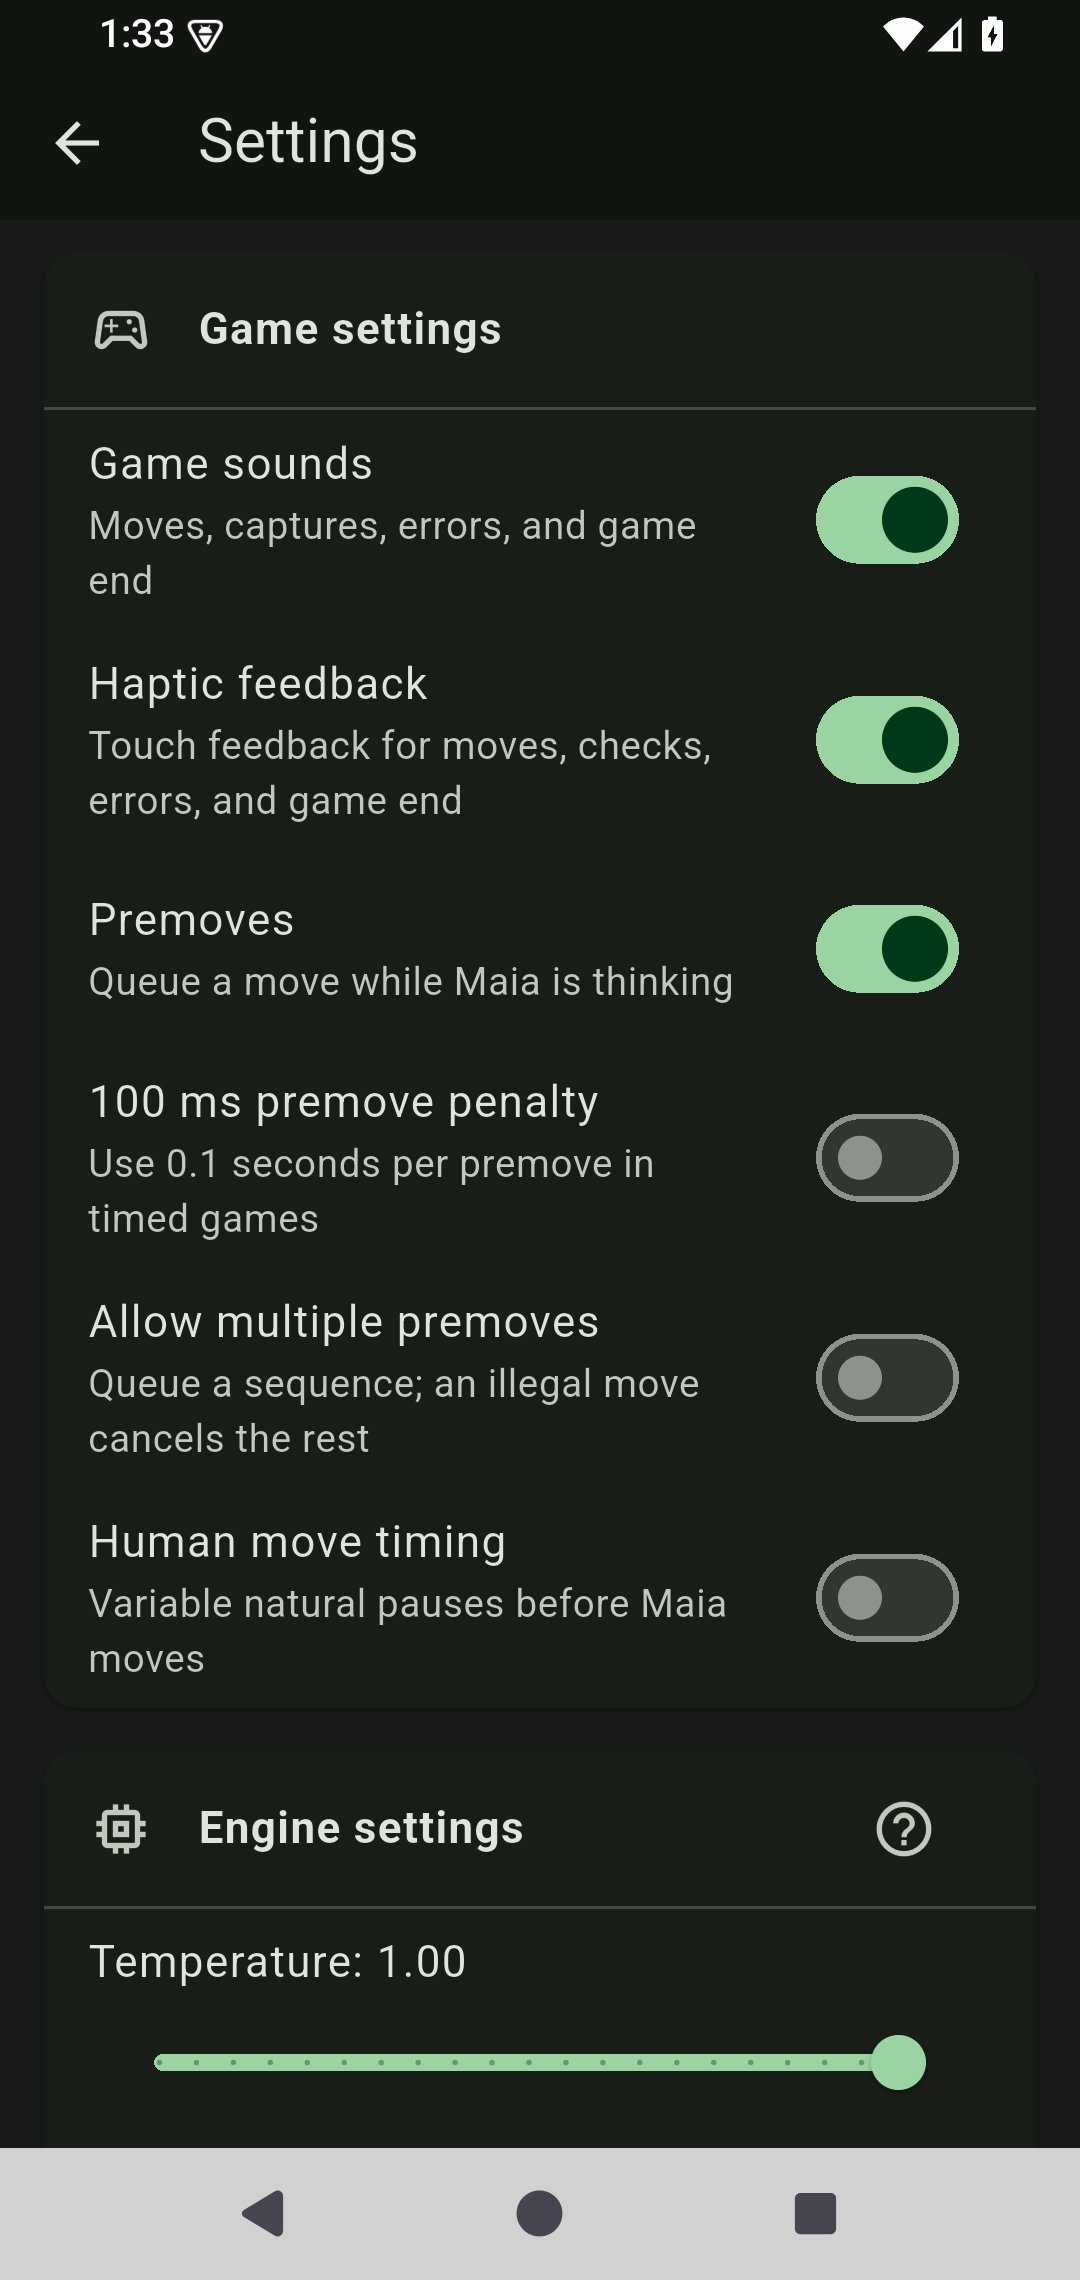
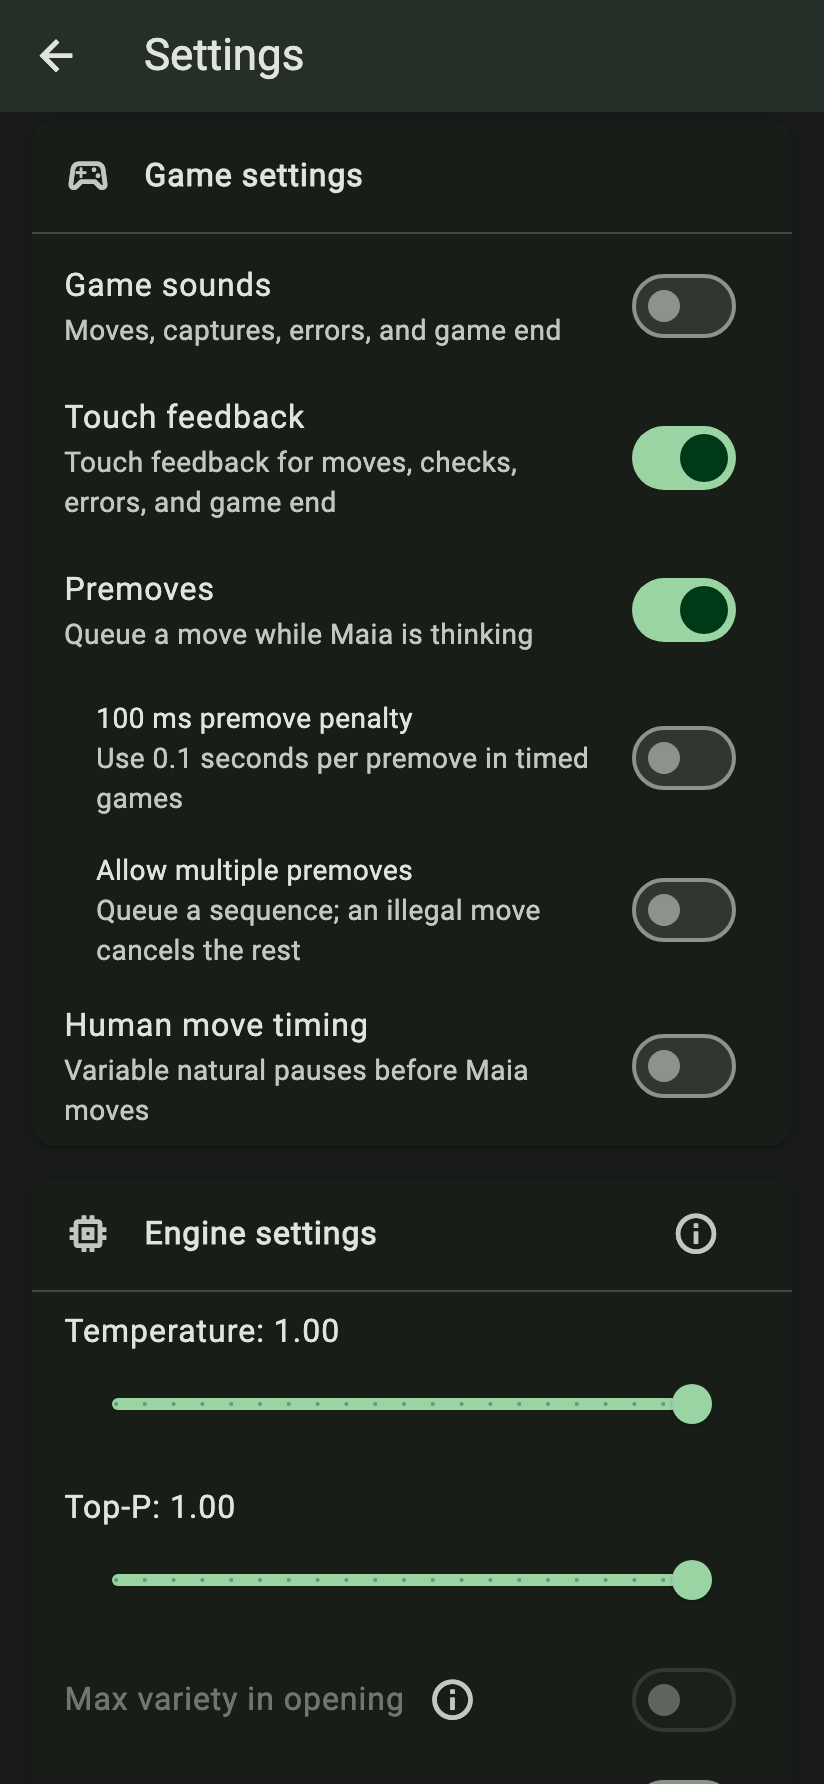
Refresh 2.4 screenshots and correct Stable screen branding

diff --git a/test/home_settings_layout_test.dart b/test/home_settings_layout_test.dart
@@ -1,6 +1,7 @@
 import 'package:flutter/material.dart';
 import 'package:flutter_test/flutter_test.dart';
 import 'package:maia_chess/main.dart';
+import 'package:package_info_plus/package_info_plus.dart';
 import 'package:shared_preferences/shared_preferences.dart';
 
 void main() {
@@ -45,6 +46,45 @@ void main() {
     expect(settings.hitTestable(), findsOneWidget);
     expect(tester.getSize(settings).height, greaterThanOrEqualTo(48));
     expect(tester.takeException(), isNull);
+  });
+
+  testWidgets('Stable Home, About and licences keep Stable branding', (
+    tester,
+  ) async {
+    PackageInfo.setMockInitialValues(
+      appName: 'Mobile Maia',
+      packageName: 'com.dash1971.maia_chess',
+      version: '2.4.0',
+      buildNumber: '81',
+      buildSignature: '',
+    );
+    await tester.pumpWidget(const MaterialApp(home: GamePage()));
+    await tester.pumpAndSettle();
+    expect(find.text('Mobile Maia'), findsOneWidget);
+    expect(find.textContaining('Mobile Maia Preview'), findsNothing);
+    await tester.tap(find.byTooltip('About'));
+    await tester.pumpAndSettle();
+    expect(
+      tester.widget<AboutDialog>(find.byType(AboutDialog)).applicationName,
+      'Mobile Maia',
+    );
+    expect(find.text('2.4.0'), findsOneWidget);
+    expect(find.textContaining('Mobile Maia Preview'), findsNothing);
+    await tester.tap(
+      find.text(
+        MaterialLocalizations.of(tester.element(find.byType(AboutDialog)))
+            .viewLicensesButtonLabel,
+      ),
+    );
+    await tester.pumpAndSettle();
+    expect(
+      tester.widget<LicensePage>(find.byType(LicensePage)).applicationName,
+      'Mobile Maia',
+    );
+    expect(find.textContaining('Mobile Maia Preview'), findsNothing);
+    expect(tester.takeException(), isNull);
+    await tester.pumpWidget(const SizedBox.shrink());
+    await tester.pumpAndSettle();
   });
 
   testWidgets('Settings separates game, engine, and Chessnut controls', (

diff --git a/lib/src/play.dart b/lib/src/play.dart
@@ -1493,7 +1493,7 @@ class _GamePageState extends State<GamePage>
     await showDialog<void>(
       context: context,
       builder: (context) => AboutDialog(
-        applicationName: 'Mobile Maia Preview',
+        applicationName: 'Mobile Maia',
         applicationVersion: version ?? l10n(context).unknownVersion,
         children: [
           Text(l10n(context).aboutPoweredBy),
@@ -1537,7 +1537,7 @@ class _GamePageState extends State<GamePage>
           TextButton.icon(
             onPressed: () => showLicensePage(
               context: context,
-              applicationName: 'Mobile Maia Preview',
+              applicationName: 'Mobile Maia',
             ),
             icon: const Icon(Icons.description_outlined),
             label: Text(l10n(context).licence),
@@ -4193,7 +4193,7 @@ class _GamePageState extends State<GamePage>
               ? ''
               : showingSettings
               ? l10n(context).settings
-              : 'Mobile Maia Preview',
+              : 'Mobile Maia',
         ),
         actions: [
           if (!_started && !showingSettings)

diff --git a/test/settings_organization_test.dart b/test/settings_organization_test.dart
@@ -495,13 +495,15 @@ void main() {
           secondMaiaEnabledPreferenceKey: true,
         });
         final boundaryKey = GlobalKey();
+        final screenshotLanguage = AppLanguageController();
+        addTearDown(screenshotLanguage.dispose);
         await tester.pumpWidget(
           RepaintBoundary(
             key: boundaryKey,
-            child: settingsApp(locale: locale),
+            child: settingsApp(locale: locale, language: screenshotLanguage),
           ),
         );
-        await openSettings(tester);
+        await tester.pumpAndSettle();
         Future<void> shot(String name) async {
           await tester.pumpAndSettle();
           final boundary =
@@ -518,6 +520,9 @@ void main() {
             image.dispose();
           });
         }
+
+        await openSettings(tester);
+        await shot('settings-top');
 
         for (final section in ['game', 'engine', 'analysis']) {
           await Scrollable.ensureVisible(

diff --git a/README.md b/README.md
@@ -60,15 +60,16 @@ this stable blue-icon app.
 
 ## Feature guide
 
-The engine and analysis Settings screenshots are refreshed for 2.4 using the
-promoted Flutter screens. They show illustrative settings, not a qualified
-Android APK. Unchanged Home, library and board images are retained from earlier
-Stable releases. See [capture provenance](docs/release-notes/v2.4.0.md#screenshots).
+Home, time controls, About and Settings images are refreshed for 2.4. Home,
+time controls and About were captured from the current Android debug build;
+Settings images are renders of the current Flutter screens. These documentation
+captures do not replace release qualification. Earlier library and board images
+are retained as illustrative game examples. See [capture provenance](docs/release-notes/v2.4.0.md#screenshots).
 
 ### Choose a game or analysis workflow
 
 <p align="center">
-  <img src="docs/screenshots/20261006_v0_stable_2_3_home.png" width="42%" alt="Stable 2.3 Home screen with Play Maia rating, side, clock, Chessnut toggle, Analysis Board, Recent games, and Settings">
+  <img src="docs/screenshots/20261017_v1_stable_2_4_home.png" width="42%" alt="Mobile Maia 2.4 Home screen with rating, side, clock, Electronic board toggle, Analysis Board, Recent games and Settings">
 </p>
 
 The home screen is the starting point for every workflow. Play as White, Black,
@@ -81,7 +82,7 @@ are remembered locally.
 ### Time controls
 
 <p align="center">
-  <img src="docs/screenshots/20261006_v0_stable_2_3_time_controls.png" width="42%" alt="Mobile Maia time-control menu including 10+5, 30+0 and 30+20">
+  <img src="docs/screenshots/20261017_v1_stable_2_4_time_controls.png" width="42%" alt="Mobile Maia time-control menu including 10+5, 30+0 and 30+20">
 </p>
 
 Games are unlimited by default. The quick controls follow Lichess's order:
@@ -118,7 +119,7 @@ therefore exceed the target, and timed games can still end on the clock.
 ### Interface language
 
 <p align="center">
-  <img src="docs/screenshots/20261006_v0_stable_2_3_settings.png" width="42%" alt="Mobile Maia Settings with the Language selector above Game settings">
+  <img src="docs/screenshots/20261017_v1_stable_2_4_settings_top.png" width="42%" alt="Mobile Maia Settings with the Language selector above Game settings">
 </p>
 
 Open **Settings → Language** to follow the system or select English, 日本語,
@@ -134,10 +135,11 @@ silently substituted for a Traditional Chinese system preference.
   <img src="docs/screenshots/20261017_v0_stable_2_4_engine_settings.png" width="42%" alt="Engine settings with optional opening variety, move history and local sampling capture">
 </p>
 
-Advanced settings control premoves, an optional exact 100 ms premove charge,
-multiple queued premoves, human-like Maia timing, Temperature, Top-P, the Maia
-rating used during review, an optional **second Maia engine** at another rating,
-and full-game analysis quality. This example compares Maia 1600 and Maia 2400:
+**Game** groups premoves, the indented 100 ms premove charge and multiple-premove
+options, human move timing, Game sounds and Touch feedback. **Engine** groups
+Temperature, Top-P, opening variety, move history and sampling data. **Analysis**
+controls review ratings and quality, including an optional **second Maia engine**
+at another rating. This example compares Maia 1600 and Maia 2400:
 
 <p align="center">
   <img src="docs/screenshots/20261017_v0_stable_2_4_analysis_settings.png" width="42%" alt="Analysis settings with Maia 1600 and Maia 2400, review quality, Chessnut sounds and confirmed Settings reset">
@@ -223,10 +225,10 @@ imbalance, the move strip, turn status, and game controls. The screen stays
 awake during an active game, and the current position is checkpointed for
 recovery after process death, restart, or an app update.
 
-### Game sounds and haptics
+### Game sounds and touch feedback
 
 <p align="center">
-  <img src="docs/screenshots/20261003_v0_stable_2_2_game_feedback.png" width="42%" alt="Stable 2.2 Game settings with Game sounds and Haptic feedback enabled">
+  <img src="docs/screenshots/20261017_v1_stable_2_4_game.png" width="42%" alt="Mobile Maia 2.4 Game settings with Touch feedback and indented premove options">
 </p>
 
 Optional **Game sounds** distinguish moves, captures, invalid moves,
@@ -292,10 +294,6 @@ or return Home. A completed game remains in **Recent games** when you choose
 confirmation.
 
 ### Chessnut electronic-board play
-
-<p align="center">
-  <img src="docs/screenshots/20260910_v0_chessnut_phone_continuation.png" width="46%" alt="Chessnut connection card with Reconnect and Play in app controls above the board">
-</p>
 
 Experimental Chessnut support has been confirmed with both Chessnut Go and
 Chessnut Air. It enters physical moves over Bluetooth and lights Maia's reply
@@ -487,7 +485,7 @@ contains several games.
 ### About, privacy, and licences
 
 <p align="center">
-  <img src="docs/screenshots/20260911_v1_about.png" width="46%" alt="Mobile Maia 2.1 About screen with version, source, licences, warranty notice, and credits">
+  <img src="docs/screenshots/20261017_v1_stable_2_4_about.png" width="46%" alt="Mobile Maia 2.4 About screen with the current version and upstream credits">
 </p>
 
 The app has no accounts, ads, subscriptions, tracking, or network dependency.

diff --git a/docs/release-notes/v2.4.0.md b/docs/release-notes/v2.4.0.md
@@ -41,15 +41,25 @@ research rounds are preserved. Two small compatibility pages remain in the app.
 
 ## Screenshots
 
-New images are actual promoted Flutter widget renders with the app theme and
-Roboto at a 412 × 892 phone viewport, saved at 2× resolution. Platform calls
+Home, time-control menu and About images were captured from the current Stable
+Android debug app on an AOSP ARM64 emulator (1080 × 1920), with the Stable
+branding correction in this follow-up. These are documentation captures, not
+proof of signed release qualification. The About image shows actual 2.4.0
+package information. Only system notification icons were hidden for capture.
+
+Settings images are actual current Flutter widget renders with the app theme
+and Roboto at a 412 × 892 phone viewport, saved at 2× resolution. Platform calls
 are mocked and any capture count is illustrative. They are not screenshots of
-a signed Stable 2.4 APK and do not establish device/build qualification.
-Unchanged Home, time-control, Recent games and board screenshots are retained
-from earlier releases and identified in the README.
+a signed Stable APK. Earlier library and board images remain illustrative game
+examples; the outdated Chessnut connection-card image has been removed.
 
 | Image | Use |
 | --- | --- |
+| `20261017_v1_stable_2_4_home.png` | README and Fastlane phone `1.png`; current Electronic board label and Stable branding |
+| `20261017_v1_stable_2_4_time_controls.png` | README and Fastlane phone `7.png`; current menu |
+| `20261017_v1_stable_2_4_about.png` | README; current version and credits |
+| `20261017_v1_stable_2_4_settings_top.png` | README; Language and grouped Game settings |
+| `20261017_v1_stable_2_4_game.png` | README and Fastlane phone `5.png`; Touch feedback and indented premove options |
 | `20261017_v0_stable_2_4_engine_settings.png` | README and Fastlane phone `8.png`; opening variety enabled at 1.0/0.95 |
 | `20261017_v0_stable_2_4_analysis_settings.png` | README; two Maia ratings, review quality, Chessnut sounds and Settings reset |
 

diff --git a/docs/RELEASING.md b/docs/RELEASING.md
@@ -59,7 +59,14 @@ flutter build apk --release --config-only --no-pub
 
 Review the README, Fastlane title/description/screenshots, current version-code
 changelog, and GitHub release text against what the app actually ships. Include
-the metadata **before** freezing the source. Inspect the entire tracked tree for
+the metadata **before** freezing the source. Inspect each README and Fastlane
+screenshot when a promotion changes labels, control grouping, defaults or
+branding. Refresh affected images from the current UI, update their captions
+and capture provenance, and check that the feature text uses the same labels.
+Do not retain an old Settings image merely because the underlying feature still
+exists. Keep accurate older game examples explicitly identified as such.
+
+Inspect the entire tracked tree for
 unintended archives, credentials, and private material, including research files.
 Never replace a published tag or APK; corrections need a new version/code.
 
